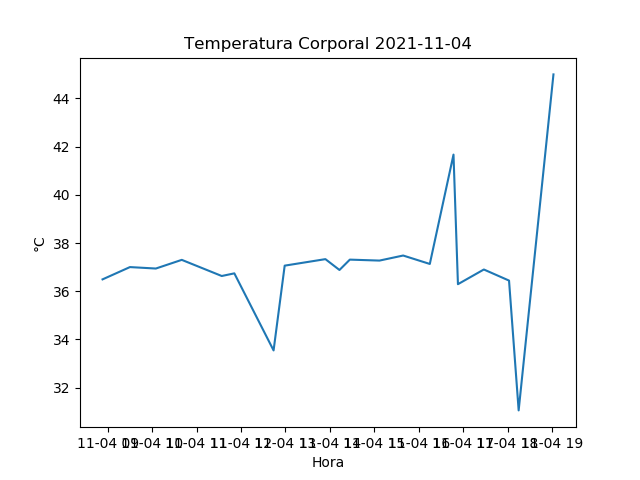
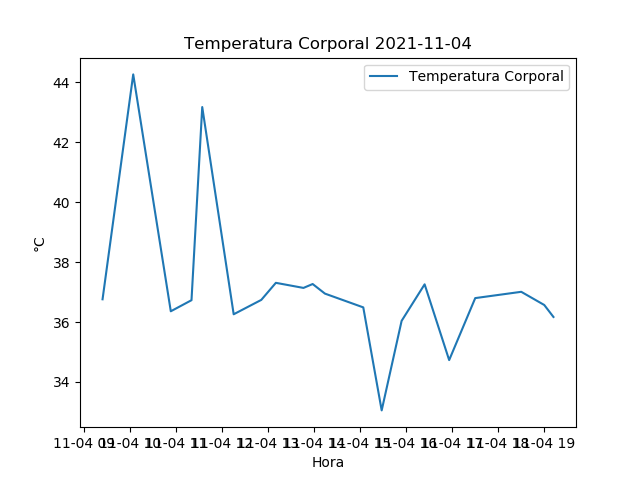
add legend to tc plot

diff --git a/utils/TC.py b/utils/TC.py
@@ -35,7 +35,7 @@ def TemperaturaCorporal(qtValores, minMinutos, MaxMinutos):
     plt.title("Temperatura Corporal " + datetime.today().strftime('%Y-%m-%d'))
     plt.ylabel("°C")
     plt.xlabel("Hora")
-
+    plt.legend(["Temperatura Corporal"])
     plt.savefig('../images/plots/TC.png')
 
 
